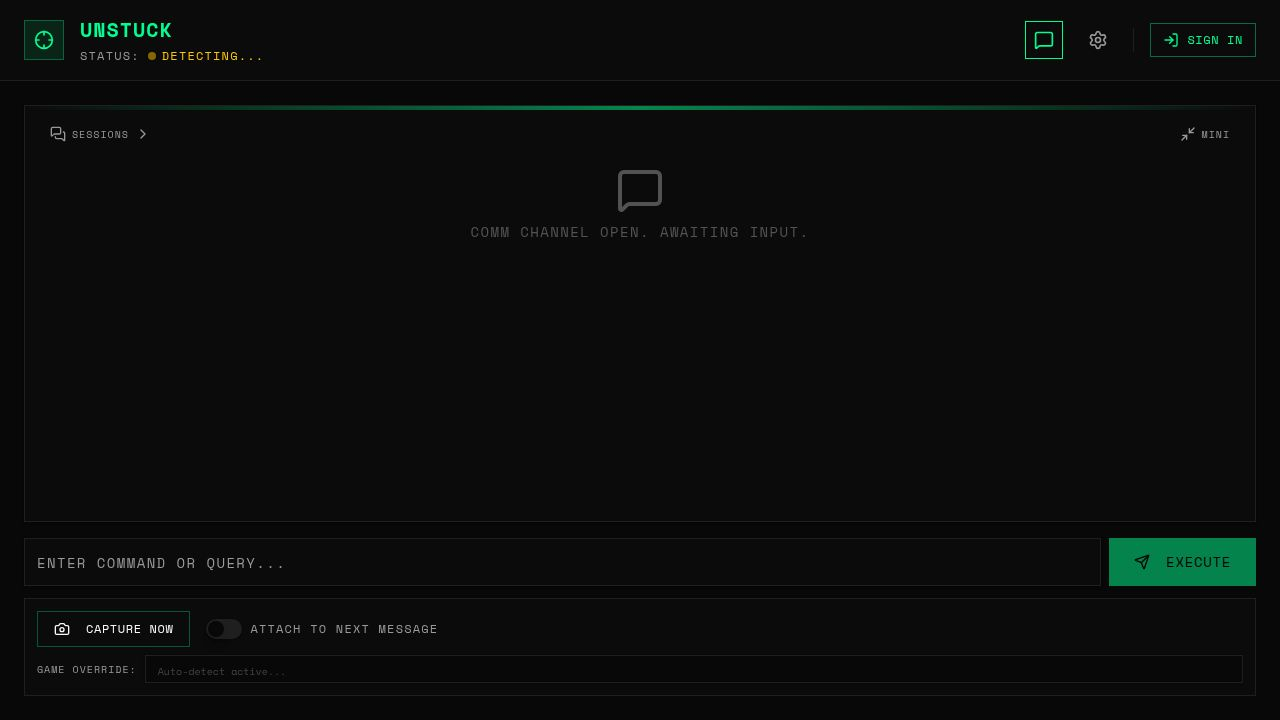
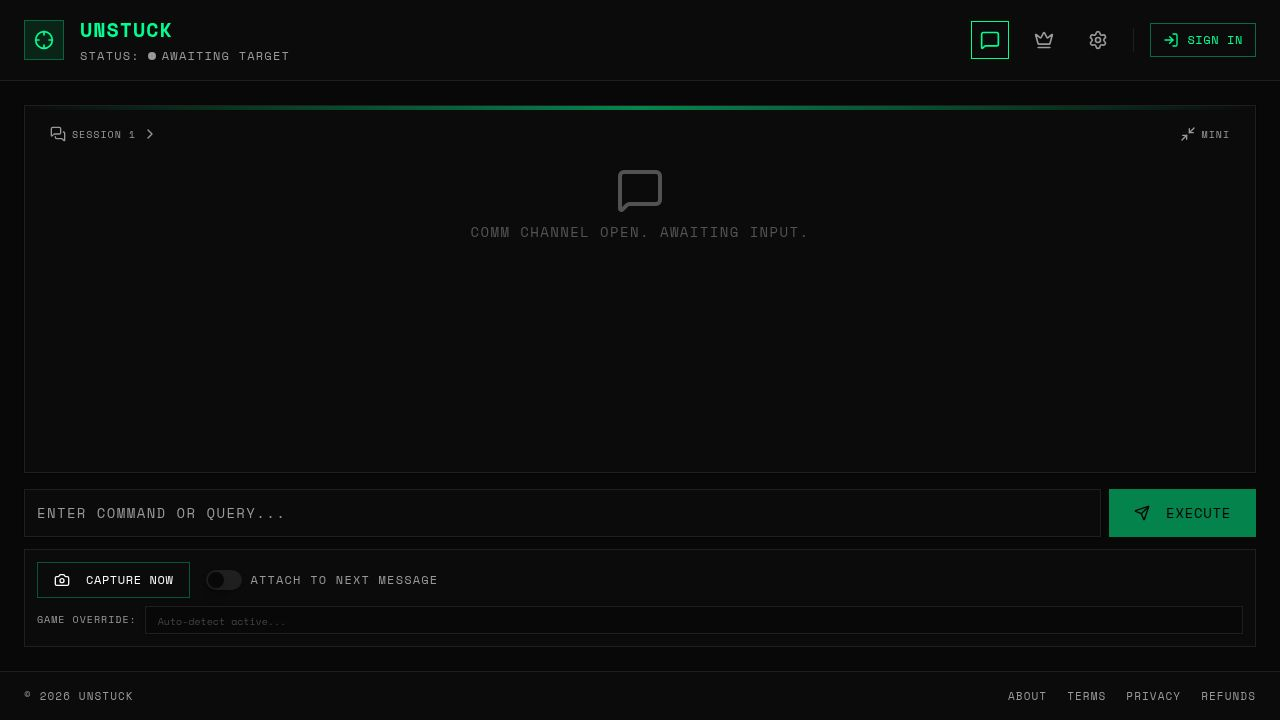
Update Paddle API key handling to trim whitespace
Trim whitespace from the Paddle API key environment variable to prevent authentication errors.

Replit-Commit-Author: Agent
Replit-Commit-Session-Id: 08133840-708c-48ce-8114-faabb764f1d9
Replit-Commit-Checkpoint-Type: full_checkpoint
Replit-Commit-Event-Id: 14c868d9-c8db-4813-862a-7f4042dacdf8
Replit-Commit-Screenshot-Url: https://storage.googleapis.com/screenshot-production-us-central1/86dea149-7c10-4095-bf6b-3f5735e4c545/08133840-708c-48ce-8114-faabb764f1d9/3hwNryM
Replit-Helium-Checkpoint-Created: true

diff --git a/artifacts/api-server/src/lib/paddle.ts b/artifacts/api-server/src/lib/paddle.ts
@@ -1,7 +1,11 @@
 import { Paddle, Environment, LogLevel } from "@paddle/paddle-node-sdk";
 import { logger } from "./logger.js";
 
-const apiKey = process.env.PADDLE_API_KEY;
+// Trim — pasted secrets very commonly carry a trailing newline or stray
+// whitespace, and the Paddle SDK puts the raw value straight into the
+// Authorization header, which then 401s with "Authentication header
+// included, but incorrectly formatted."
+const apiKey = process.env.PADDLE_API_KEY?.trim() || undefined;
 
 // Older Paddle keys are prefixed pdl_sdbx_* / pdl_live_*, but newer keys
 // (post-2024) drop the environment marker and start with just pdl_apikey_*.